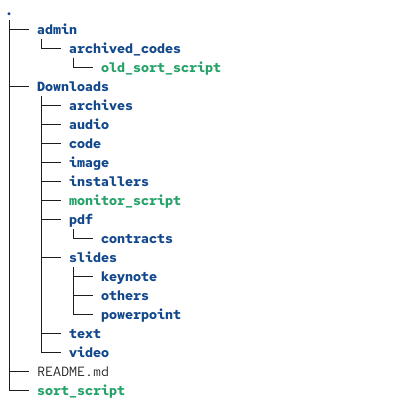
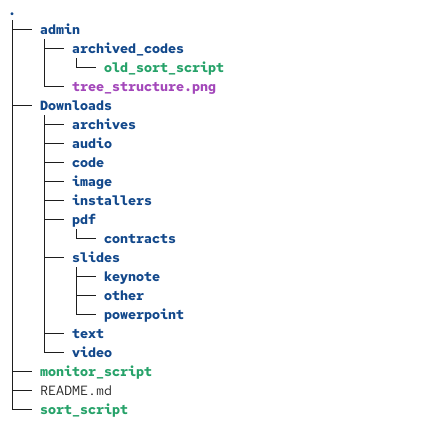
Made monitoring script auto-launch upon boot. Updated README.md

Changed region(s): [[0.0, 0.0292, 0.5772, 0.9927]]

diff --git a/README.md b/README.md
@@ -4,11 +4,11 @@
 Welcome! I have created a bash-based organization system that automatically sorts files in a simulated 'Downloads' folder on a computer. Link to **[video explanation](insertlink.here)**.
 
 ## Script functions
-`sort_script` creates relevant directories and moves files into their corresponding directories based on file extensions. File prefix can also be used for further organization. Automatically runs on startup and can also be manually executed.
+`sort_script` creates relevant directories and moves files into their corresponding directories based on file extensions. File prefix can also be used for further organization.
 
 **Note**: Files must be present in `dlorg_nike_tornros/Downloads` in order to be affected by `sort_script`.
 
-`monitor_script` optional, monitors the creation and editing of files.
+`monitor_script` monitors our `Downloads/` directory. Whenever a file enters this directory, `sort_script` is automatically triggered. Automatically launches on startup and continously runs.
 
 `ignore.gitignore` makes Git ignore irrelevant files, such as Vim's `.swp` files.
 
@@ -23,18 +23,19 @@ With all relevant directories in use, the structure will look like this:
 
 ## How it works
 
-`sort_script` checks the files in the `Downloads/` directory and determines which directory each file belongs to based on its **file extension**. For example:
-- *.txt, *.md, *.rtf --> `Downloads/text`
+1. `monitor_script` launches when computer boots. If a file is moved into `Downloads`, `sort_script` gets triggered.
+
+2. `sort_script` creates directories, if any are missing or **have been deleted**.
+
+3a. `sort_script` checks the files in the `Downloads/` directory and determines which directory each file belongs in based on its **file extension**. For example:
+- *.tixt, *.md, *.rtf --> `Downloads/text`
 - *.mov, *.mp4, *.mkv, *.avi --> `Downloads/video`
 
-Some directories contain subdirectories. For example, files belonging in `Downloads/slides` are further organized based on their file type, `/slides/powerpoint`, `/slides/keynote` and `/slides/others`. This was done in order to showcase the script working with subdirectories.
+3b. Some directories contain subdirectories. For example, files belonging in the umbrella-directory`Downloads/slides` are further organized based on their file type, `/slides/powerpoint`, `/slides/keynote` and `/slides/others`. This was done in order to showcase the script working with subdirectories.
 
 - *.pptx --> `Downloads/slides/powerpoint`
 - *.key --> `Downloads/slides/keynote`
 
-Files can also be moved into subdirectories based on prefix, for example:
+3c. Files can also be moved into subdirectories based on prefix, for example:
 - contract_*.pdf --> `Downloads/pdf/contracts`
 
-If the directory does not already exist, the script creates relevant directories and subdirectories.
-
-Upon executing the script, or when launching the machine, all files inside `Downloads/` will be moved into their corresponding directories. 
